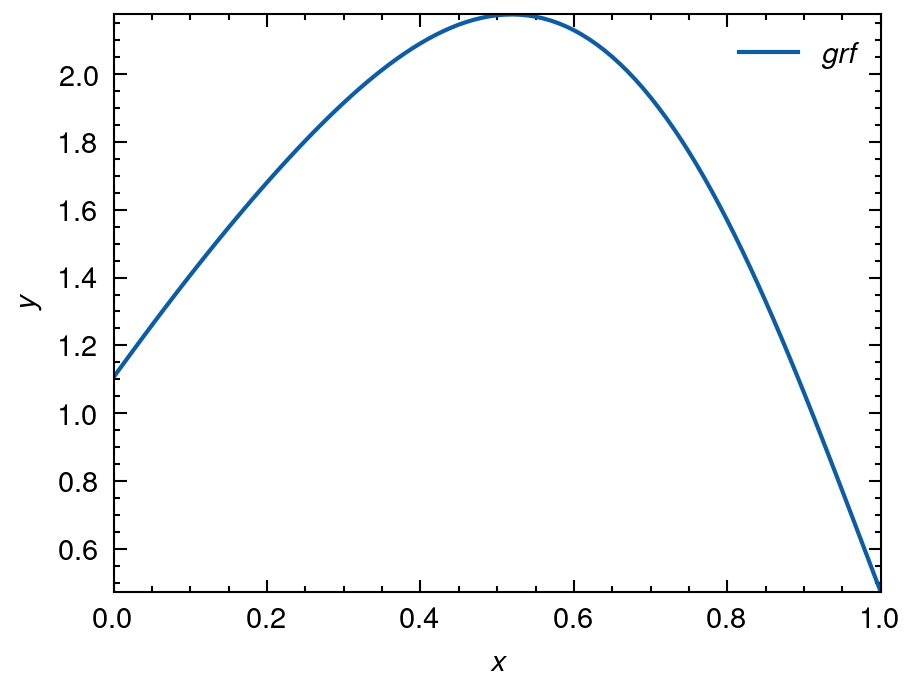
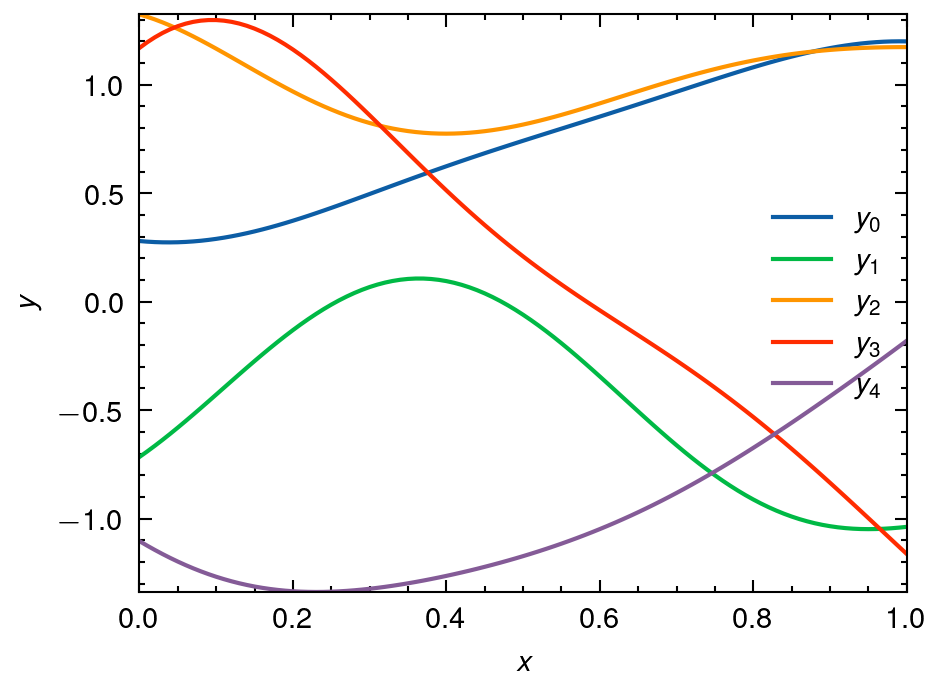
multiple GRF generate

diff --git a/src/main.rs b/src/main.rs
@@ -3,29 +3,32 @@ use peroxide::fuga::*;
 use std::env::args;
 
 fn main() {
-    let n = args().nth(1).unwrap().parse::<usize>().unwrap();
-    let sigma = args().nth(2).unwrap().parse::<f64>().unwrap();
+    // # of samples
+    let d = args().nth(1).unwrap().parse::<usize>().unwrap();
+
+    // # of nodes
+    let n = args().nth(2).unwrap().parse::<usize>().unwrap();
+
+    // Determine the kernel window size
+    let sigma = args().nth(3).unwrap().parse::<f64>().unwrap();
 
     let x = linspace(0, 1, n);
-    let y = grf_1(n, sigma);
-
-    //let x_new = linspace(0, 1, 101);
-    //let cs = cubic_hermite_spline(&x, &y, Quadratic);
-    //let y_new = cs.eval_vec(&x_new);
+    let y = (0 .. d).map(|_| grf(n, sigma)).collect::<Vec<_>>();
 
     let mut df = DataFrame::new(vec![]);
     df.push("x", Series::new(x));
-    df.push("y", Series::new(y));
-    df.print();
+    for i in 0 .. d {
+        df.push(&format!("y{}", i), Series::new(y[i].clone()));
+    }
 
-    df.write_nc("test.nc").unwrap();
+    df.write_nc(&format!("grf_{}_{}_{:.2}.nc", d, n, sigma)).unwrap();
 }
 
 /// Gaussian Random Fields using circulant embedding method 1
 ///
 /// * Title: An Effective Method for Simulating Gaussian Random Fields
 /// * Author: Grace Chan
-fn grf_1(n: usize, sigma: f64) -> Vec<f64> {
+fn grf(n: usize, sigma: f64) -> Vec<f64> {
     let g = (2f64 * (n - 1) as f64).log2().ceil() as i32;
     let mut m = 2f64.powi(g) as usize;
     let qa = loop {
@@ -36,7 +39,6 @@ fn grf_1(n: usize, sigma: f64) -> Vec<f64> {
         fft.process(&mut c_fft);
         let c_fft = c_fft.iter().map(|x| x.re).collect::<Vec<_>>();
         let c_min = c_fft.iter().min_by(|&x, &y| x.partial_cmp(y).unwrap()).unwrap();
-        c_min.print();
 
         if c_min >= &0f64 {
             break c_fft.fmap(|t| t.sqrt());

diff --git a/nc_plot.py b/nc_plot.py
@@ -9,7 +9,11 @@ var = data.variables
 
 # Prepare Data to Plot
 x = var['x'][:]
-y = var['y'][:]  
+y0 = var['y0'][:]  
+y1 = var['y1'][:]
+y2 = var['y2'][:]
+y3 = var['y3'][:]
+y4 = var['y4'][:]
 
 # Plot params
 pparam = dict(
@@ -24,6 +28,10 @@ with plt.style.context(["science", "nature"]):
     fig, ax = plt.subplots()
     ax.autoscale(tight=True)
     ax.set(**pparam)
-    ax.plot(x, y, label=r'$grf$')
+    ax.plot(x, y0, label=r'$y_0$')
+    ax.plot(x, y1, label=r'$y_1$')
+    ax.plot(x, y2, label=r'$y_2$')
+    ax.plot(x, y3, label=r'$y_3$')
+    ax.plot(x, y4, label=r'$y_4$')
     ax.legend()
     fig.savefig('plot.png', dpi=300, bbox_inches='tight')
